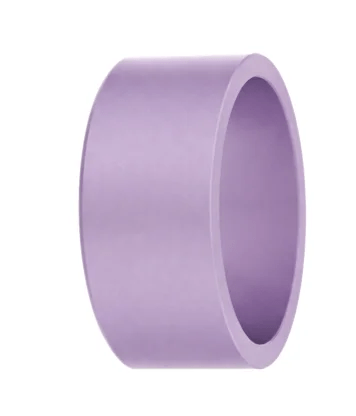
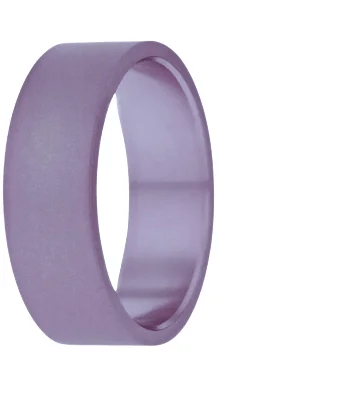
feat(creer): +27 photos formats — open mood, deux tiers et medium complets
État final :
- Addon : 3/12 (noir, rouge, bleu marine) — manque 9 pastels
- Deux tiers : 12/12 ✅
- Medium : 12/12 ✅
- Open mood : 12/12 ✅

Reorg : suppression des 9 pastels que j'avais placés à tort dans /addon/ (c'étaient en réalité des open mood).

diff --git a/html/creer.html b/html/creer.html
@@ -533,19 +533,25 @@ const COULEURS = [
 // Quand Amila ajoute une photo manquante, on l'inscrit ici et le fallback teinté disparaît.
 const PHOTOS_DISPO = {
   'addon': {
-    'noir': 'jpg', 'rouge': 'jpg', 'bleu-marine': 'jpg', 'lilas-cashmere': 'png',
-    'beige-pastel': 'png', 'rose-pastel': 'png', 'noisette': 'png', 'peche': 'png',
-    'abricot': 'png', 'jaune-pastel': 'png', 'vert-pastel': 'png', 'bleu-pastel': 'png',
+    'noir': 'jpg', 'rouge': 'jpg', 'bleu-marine': 'jpg',
   },
   'deux-tiers': {
-    'lilas-cashmere': 'png', 'rouge': 'jpg', 'bleu-marine': 'webp',
-    'rose-pastel': 'png', 'noisette': 'png', 'peche': 'png', 'abricot': 'png',
+    'noir': 'jpg', 'rouge': 'jpg', 'bleu-marine': 'webp',
+    'lilas-cashmere': 'png', 'beige-pastel': 'png', 'rose-pastel': 'png',
+    'noisette': 'png', 'peche': 'png', 'abricot': 'png',
+    'jaune-pastel': 'png', 'vert-pastel': 'png', 'bleu-pastel': 'png',
   },
   'medium': {
-    'lilas-cashmere': 'png', 'rouge': 'jpg', 'bleu-marine': 'jpg', 'noir': 'webp', 'bleu-pastel': 'png',
+    'noir': 'webp', 'rouge': 'jpg', 'bleu-marine': 'jpg',
+    'lilas-cashmere': 'png', 'beige-pastel': 'png', 'rose-pastel': 'png',
+    'noisette': 'png', 'peche': 'png', 'abricot': 'png',
+    'jaune-pastel': 'png', 'vert-pastel': 'png', 'bleu-pastel': 'png',
   },
   'open-mood': {
-    'lilas-cashmere': 'png', 'rouge': 'jpg', 'beige-pastel': 'png', 'rose-pastel': 'png',
+    'noir': 'jpg', 'rouge': 'jpg', 'bleu-marine': 'jpg',
+    'lilas-cashmere': 'png', 'beige-pastel': 'png', 'rose-pastel': 'png',
+    'noisette': 'png', 'peche': 'png', 'abricot': 'png',
+    'jaune-pastel': 'png', 'vert-pastel': 'png', 'bleu-pastel': 'png',
   },
 };
 